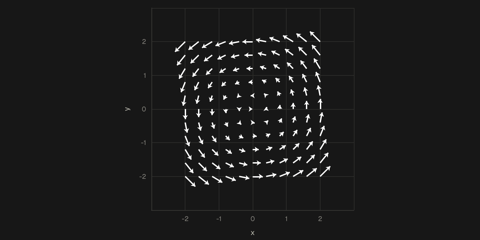
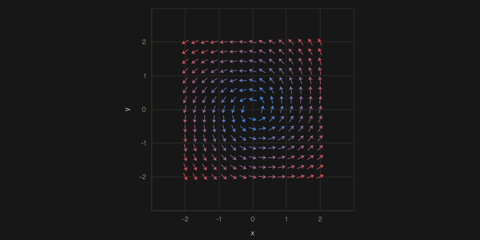
VectorField layer: unit arrows coloured by magnitude, with selectable arrow styles
A vector field on a grid draws equal-length thin arrows by default, coloured from blue at the
smallest magnitude to red at the largest; length='magnitude' scales them instead. Arrows can
be drawn as arrow, triangle, line or dot. The vector field recipe uses it, with button groups
for the style and the length mode, and its thumbnails are rebuilt.

Changed region(s): [[0.3438, 0.1167, 0.6875, 0.7875]]

diff --git a/packages/render/src/viz/vectors.ts b/packages/render/src/viz/vectors.ts
@@ -5,6 +5,13 @@ import type { Range } from './viewport'
  * An arrow from `from` to `to`. Ink by default; `slot` colours it as that palette slot. `label` names it at its tip, or
  * with `labelAt: 'middle'` on a small pill at its midpoint (a count on a path's move, say). `width` thickens the shaft.
  */
+/**
+ * How an arrow is drawn: `'arrow'` a shaft with a notched head (the default), `'triangle'` a shaft with a solid
+ * triangular head, `'line'` the shaft alone (direction without sense), `'dot'` a dot at the base with the shaft
+ * pointing away from it.
+ */
+export type ArrowStyle = 'arrow' | 'triangle' | 'line' | 'dot'
+
 export type Vector = {
   from: [number, number]
   to: [number, number]
@@ -16,6 +23,10 @@ export type Vector = {
   head?: number
   /** Draw in the muted chrome colour (a background field under trails and points). */
   muted?: boolean
+  /** A data colour from a scale helper, in place of ink, the slot or the muted colour (an arrow of a coloured field). */
+  color?: string
+  /** How the arrow is drawn (default `'arrow'`). */
+  style?: ArrowStyle
 }
 
 /** The plot's visible box in data coordinates, with each axis's scale. */
@@ -67,19 +78,29 @@ export function vectorLines(vectors: readonly Vector[], mode: Mode, box?: Box) {
   return vectors.flatMap((v) => {
     const clipped = box ? clipSegment(v.from, v.to, box) : { from: v.from, to: v.to, tipInside: true }
     if (!clipped) return []
-    const color = v.muted ? chrome(mode).muted : v.slot === undefined ? chrome(mode).ink : seriesColor(mode, v.slot)
+    const color =
+      v.color ?? (v.muted ? chrome(mode).muted : v.slot === undefined ? chrome(mode).ink : seriesColor(mode, v.slot))
     // A midpoint label is drawn upright on its own (`vectorMidLabels`), not along the line.
     const label =
       v.label && v.labelAt !== 'middle'
         ? { show: true, formatter: v.label, position: 'end', color, fontSize: 11 }
         : { show: false }
     const lineStyle = v.width === undefined ? { color } : { color, width: v.width }
+    const style = v.style ?? 'arrow'
+    const size = v.head ?? 10
+    const headed = style === 'arrow' || style === 'triangle'
+    // A clipped `from` is on the box's edge, not the arrow's base: only a base inside the box gets its dot.
+    const based = style === 'dot' && clipped.from[0] === v.from[0] && clipped.from[1] === v.from[1]
     return [
       [
-        { coord: clipped.from, lineStyle, label, symbol: 'none' },
-        clipped.tipInside
-          ? { coord: clipped.to, symbol: 'arrow', symbolSize: v.head ?? 10 }
-          : { coord: clipped.to, symbol: CHEVRON, symbolSize: [8, 8] },
+        based
+          ? { coord: clipped.from, lineStyle, label, symbol: 'circle', symbolSize: Math.max(3, size * 0.8) }
+          : { coord: clipped.from, lineStyle, label, symbol: 'none' },
+        !headed
+          ? { coord: clipped.to, symbol: 'none' }
+          : clipped.tipInside
+            ? { coord: clipped.to, symbol: style, symbolSize: size }
+            : { coord: clipped.to, symbol: CHEVRON, symbolSize: [8, 8] },
       ],
     ]
   })
@@ -120,4 +141,57 @@ export function vectorMidLabels(vectors: readonly Vector[], mode: Mode, box?: Bo
 /** Every vector's two ends, for including vectors in an axis's automatic fit. */
 export function vectorEnds(vectors: readonly Vector[]): Point[] {
   return vectors.flatMap((v) => [v.from, v.to])
+}
+
+/** One arrow of a sampled field: its two ends and the field's magnitude at its centre. */
+export type FieldArrow = { from: Point; to: Point; magnitude: number }
+
+/** How a field is sampled and drawn as arrows. */
+export type FieldArrowOptions = {
+  /** The range of x covered by the grid. */
+  x: readonly [number, number]
+  /** The range of y covered by the grid. */
+  y: readonly [number, number]
+  /** Grid points along each axis (default 15), or `[nx, ny]`; each at least 2. */
+  n?: number | readonly [number, number]
+  /**
+   * `'unit'` (default): every arrow has the same length, so the picture shows direction and leaves magnitude to colour.
+   * `'magnitude'`: an arrow's length is proportional to the field's magnitude, the longest filling `scale` of a cell.
+   */
+  length?: 'unit' | 'magnitude'
+  /** The longest arrow as a fraction of the grid spacing (default 0.8). */
+  scale?: number
+}
+
+/**
+ * A vector field as arrows on a grid: one arrow centred on each of the nx × ny grid points of the rectangle, along the
+ * field there. Lengths are set in grid-spacing units, so arrows of equal length look equal whatever the aspect of the
+ * axes. A point where the field vanishes (or is not finite) has no arrow.
+ */
+export function fieldArrows(
+  field: (x: number, y: number) => readonly [number, number],
+  { x, y, n = 15, length = 'unit', scale = 0.8 }: FieldArrowOptions,
+): FieldArrow[] {
+  const [nx, ny] = typeof n === 'number' ? [n, n] : n
+  if (!(nx >= 2 && ny >= 2)) throw new Error('fieldArrows: n must be at least 2 along each axis')
+  const dx = (x[1] - x[0]) / (nx - 1)
+  const dy = (y[1] - y[0]) / (ny - 1)
+  // Each sample in grid-spacing units: (u / dx, v / dy) is the arrow as the eye sees it on a grid that fills the plot.
+  const samples: { cx: number; cy: number; gu: number; gv: number; cell: number; magnitude: number }[] = []
+  for (let i = 0; i < ny; i++)
+    for (let j = 0; j < nx; j++) {
+      const cx = x[0] + j * dx
+      const cy = y[0] + i * dy
+      const [u, v] = field(cx, cy)
+      const magnitude = Math.hypot(u, v)
+      if (!(magnitude > 1e-12) || !Number.isFinite(magnitude)) continue
+      samples.push({ cx, cy, gu: u / dx, gv: v / dy, cell: Math.hypot(u / dx, v / dy), magnitude })
+    }
+  const longest = Math.max(0, ...samples.map((s) => s.cell))
+  return samples.map(({ cx, cy, gu, gv, cell, magnitude }) => {
+    const unit = (scale / 2) * (length === 'unit' ? 1 / cell : 1 / longest)
+    const hx = gu * unit * dx
+    const hy = gv * unit * dy
+    return { from: [cx - hx, cy - hy], to: [cx + hx, cy + hy], magnitude }
+  })
 }

diff --git a/packages/render/src/viz/plot/layers/marks.tsx b/packages/render/src/viz/plot/layers/marks.tsx
@@ -1,9 +1,20 @@
-/** The basic layers: curves, points, bars, areas, a signed area, segments, vectors, a rug, annotations and handles. */
-import { chrome, MARKER_SHAPES, scaleStops, seriesColor } from '@render/design/palette'
+/**
+ * The basic layers: curves, points, bars, areas, a signed area, segments, vectors, a vector field, a rug, annotations
+ * and handles.
+ */
+import { chrome, coolWarm, interpolateColors, MARKER_SHAPES, scaleStops, seriesColor } from '@render/design/palette'
 import { formatNumber } from '../../format'
 import type { Handle as HandleSpec } from '../../handles'
 import { LINE_WIDTH, MARKER_SIZE } from '../../theme'
-import { vectorEnds, vectorLines, vectorMidLabels, type Vector } from '../../vectors'
+import {
+  fieldArrows,
+  vectorEnds,
+  vectorLines,
+  vectorMidLabels,
+  type ArrowStyle,
+  type FieldArrowOptions,
+  type Vector,
+} from '../../vectors'
 import {
   defineLayer,
   extentOf,
@@ -640,6 +651,85 @@ export const Vectors = defineLayer<VectorsProps>({
       },
     ],
   }),
+})
+
+// ── Vector field ─────────────────────────────────────────────────────────────────────────────────────────────────────
+
+export type VectorFieldProps = CommonProps &
+  FieldArrowOptions & {
+    /** The field: the vector at the point (x, y). */
+    field: (x: number, y: number) => readonly [number, number]
+    /**
+     * The magnitudes at the two ends of the colour scale (default: the smallest and largest on the grid). Fix it when
+     * the field changes (a slider, an animation), so a colour keeps its meaning.
+     */
+    range?: readonly [number, number]
+    /** Arrowhead size in pixels (default 5). */
+    head?: number
+    /** How each arrow is drawn (default `'arrow'`): `'arrow'`, `'triangle'`, `'line'` (no head) or `'dot'` (a dot at the base). */
+    arrow?: ArrowStyle
+  }
+
+/**
+ * A vector field on a grid. By default every arrow has the same length, thin and with a small head, and its colour
+ * shows the field's magnitude there, from blue at the smallest to red at the largest, so direction stays readable
+ * where the field is weak and the picture is not dominated by its largest values. `length="magnitude"` draws lengths in proportion
+ * instead, in ink (or in `color`, or muted).
+ */
+export const VectorField = defineLayer<VectorFieldProps>({
+  kind: 'VectorField',
+  legend: () => [],
+  slotted: () => false,
+  needsBox: true,
+  extent: (p) => {
+    // Arrows are centred on the grid points, so those on the boundary reach half a length beyond it.
+    const [nx, ny] = typeof p.n === 'number' ? [p.n, p.n] : (p.n ?? [15, 15])
+    const reach = (p.scale ?? 0.8) / 2
+    const px = (reach * (p.x[1] - p.x[0])) / (nx - 1)
+    const py = (reach * (p.y[1] - p.y[0])) / (ny - 1)
+    return { x: [p.x[0] - px, p.x[1] + px], y: [p.y[0] - py, p.y[1] + py] }
+  },
+  build: (p, ctx) => {
+    const arrows = fieldArrows(p.field, p)
+    const magnitudes = arrows.map((a) => a.magnitude)
+    const [lo, hi] = p.range ?? [Math.min(...magnitudes), Math.max(...magnitudes)]
+    const stops = coolWarm(ctx.mode)
+    const coloured = (p.length ?? 'unit') === 'unit' && !p.color && !p.muted
+    const vectors = arrows.map(({ from, to, magnitude }): Vector => {
+      const t = hi > lo ? (magnitude - lo) / (hi - lo) : 1
+      return {
+        from,
+        to,
+        width: 1,
+        head: p.head ?? 5,
+        style: p.arrow,
+        muted: p.muted,
+        color: coloured ? interpolateColors(stops, t) : p.color,
+      }
+    })
+    return {
+      series: [
+        {
+          id: ctx.id,
+          name: '__vector-field',
+          type: 'line',
+          data: [],
+          silent: true,
+          tooltip: { show: false },
+          markLine: {
+            silent: true,
+            symbol: ['none', 'arrow'],
+            symbolSize: p.head ?? 5,
+            label: { show: false },
+            lineStyle: { color: chrome(ctx.mode).ink, width: 1, type: 'solid' },
+            animation: false,
+            data: vectorLines(vectors, ctx.mode, ctx.box),
+          },
+          z: 5,
+        },
+      ],
+    }
+  },
 })
 
 // ── Rug ──────────────────────────────────────────────────────────────────────────────────────────────────────────────

diff --git a/examples/src/recipes/fields/04-vector-field.tsx b/examples/src/recipes/fields/04-vector-field.tsx
@@ -1,27 +1,38 @@
-import { Figure, Plot, useAxis, Vectors, type Vector } from 'aifn-render'
+import { Figure, Plot, Segmented, useAxis, VectorField, type ArrowStyle } from 'aifn-render'
+import { useState } from 'react'
 import type { Recipe } from '@examples/recipe'
-import { grid } from '@examples/data'
 
 export const recipe: Recipe = {
   title: 'Vector field',
-  question: 'How do I draw arrows, such as a vector field?',
+  question: 'How do I draw a vector field?',
   explain:
-    '`Vectors` draws arrows `{ from, to }`, clipped to the plot with a chevron where they leave it. Use `head` for smaller arrowheads in a dense field and `equal` axes so angles are true.',
+    '`VectorField` samples a function `(x, y) => [u, v]` on a grid and draws an arrow at each point. By default every arrow is the same length and its colour shows the magnitude, from blue at the smallest to red at the largest, so direction stays readable where the field is weak; `length="magnitude"` scales the arrows instead. `arrow` picks how each one is drawn. Use `equal` axes so angles are true. For single arrows of your own, use `Vectors`.',
 }
 
-const at = grid(-2, 2, 11)
-// The rotation field (−y, x), scaled to fit between grid points
-const field: Vector[] = at.flatMap((a) =>
-  at.map((b): Vector => ({ from: [a, b], to: [a - 0.15 * b, b + 0.15 * a], head: 6 })),
-)
+// A swirl that also drifts outwards: slow near the origin, fast at the edge
+const swirl = (x: number, y: number) => [-y + 0.3 * x, x + 0.3 * y] as const
 
-export default function VectorField() {
+const STYLES: ArrowStyle[] = ['arrow', 'triangle', 'line', 'dot']
+
+export default function VectorFieldRecipe() {
+  const [arrow, setArrow] = useState<ArrowStyle>('arrow')
+  const [length, setLength] = useState<'unit' | 'magnitude'>('unit')
   const x = useAxis({ label: 'x' })
   const y = useAxis({ label: 'y', equal: x })
   return (
-    <Figure title="A vector field" purpose="The rotation field (−y, x).">
+    <Figure
+      title="A vector field"
+      purpose="Unit arrows show the direction; colour shows the magnitude."
+      controls={
+        <>
+          <Segmented label="arrow" value={arrow} onChange={setArrow} options={STYLES} />
+          <Segmented label="length" value={length} onChange={setLength} options={['unit', 'magnitude']} />
+        </>
+      }
+      caption="The field (−y + 0.3x, x + 0.3y). With unit lengths, blue arrows are the slowest and red the fastest."
+    >
       <Plot x={x} y={y}>
-        <Vectors vectors={field} />
+        <VectorField field={swirl} x={[-2, 2]} y={[-2, 2]} n={15} arrow={arrow} length={length} />
       </Plot>
     </Figure>
   )

diff --git a/packages/render/src/viz/vectors.test.ts b/packages/render/src/viz/vectors.test.ts
@@ -1,0 +1,40 @@
+import { describe, expect, it } from 'vitest'
+import { fieldArrows } from './vectors'
+
+const length = (a: { from: [number, number]; to: [number, number] }) =>
+  Math.hypot(a.to[0] - a.from[0], a.to[1] - a.from[1])
+
+describe('fieldArrows', () => {
+  // The rotation field (−y, x): its magnitude is the distance from the origin.
+  const rotation = (x: number, y: number) => [-y, x] as const
+  const square = { x: [-2, 2], y: [-2, 2], n: 5 } as const
+
+  it('draws every arrow the same length by default, centred on its grid point, and reports the magnitude', () => {
+    const arrows = fieldArrows(rotation, square)
+    // 25 grid points less the origin, where the field vanishes.
+    expect(arrows).toHaveLength(24)
+    for (const a of arrows) {
+      expect(length(a)).toBeCloseTo(0.8, 12)
+      const centre = [(a.from[0] + a.to[0]) / 2, (a.from[1] + a.to[1]) / 2]
+      expect(a.magnitude).toBeCloseTo(Math.hypot(centre[0], centre[1]), 12)
+    }
+  })
+
+  it('draws lengths in proportion to the magnitude with length: magnitude, the longest filling `scale` of a cell', () => {
+    const arrows = fieldArrows(rotation, { ...square, length: 'magnitude' })
+    const longest = Math.max(...arrows.map((a) => a.magnitude))
+    for (const a of arrows) expect(length(a)).toBeCloseTo((0.8 * a.magnitude) / longest, 12)
+  })
+
+  it('keeps arrows equal in grid units when the axes have different spans', () => {
+    const arrows = fieldArrows(() => [1, 1], { x: [0, 10], y: [0, 1], n: 3 })
+    // Spacing 5 by 0.5. Measured in grid spacings, every arrow is 0.8 long, and it points along (1/5, 1/0.5): the
+    // direction the field has on a plot whose grid fills the box.
+    for (const a of arrows) {
+      const gx = (a.to[0] - a.from[0]) / 5
+      const gy = (a.to[1] - a.from[1]) / 0.5
+      expect(Math.hypot(gx, gy)).toBeCloseTo(0.8, 12)
+      expect(gy / gx).toBeCloseTo(10, 10)
+    }
+  })
+})

diff --git a/packages/render/src/design/palette.ts b/packages/render/src/design/palette.ts
@@ -158,6 +158,14 @@ export function interpolateColors(stops: readonly string[], t: number): string {
   return `rgb(${a.map((c, j) => Math.round(c + (b[j] - c) * (u - i))).join(', ')})`
 }
 
+/**
+ * A two-stop scale from the strong blue (low) to the strong red (high) of the diverging palette, with no pale
+ * midpoint: for thin marks drawn on the surface (the arrows of a vector field), where a pale stop would vanish.
+ */
+export function coolWarm(mode: Mode): readonly string[] {
+  return [palette.diverging.negative[mode][2], palette.diverging.positive[mode][2]]
+}
+
 /** The stops of a continuous scale in a theme. */
 export function scaleStops(scale: 'sequential' | 'diverging', mode: Mode): readonly string[] {
   return scale === 'diverging' ? diverging(mode) : sequential(mode)

diff --git a/packages/render/src/viz/index.ts b/packages/render/src/viz/index.ts
@@ -12,7 +12,7 @@ export {
   type HoverRow,
 } from './frame'
 export { Handle, type Vec2 } from './handles'
-export type { Vector } from './vectors'
+export { fieldArrows, type ArrowStyle, type FieldArrow, type FieldArrowOptions, type Vector } from './vectors'
 export { useScaleColor } from './useScaleColor'
 export { formatNumber, formatPower, niceStep, stepDecimals } from './format'
 export * from './plot'

diff --git a/packages/render/src/viz/plot/index.ts b/packages/render/src/viz/plot/index.ts
@@ -15,6 +15,7 @@ export {
   Rug,
   Segments,
   SignedArea,
+  VectorField,
   Vectors,
   type AnnotationProps,
   type AreaProps,
@@ -25,6 +26,7 @@ export {
   type Segment,
   type SegmentsProps,
   type SignedAreaProps,
+  type VectorFieldProps,
   type VectorsProps,
 } from './layers/marks'
 export {
